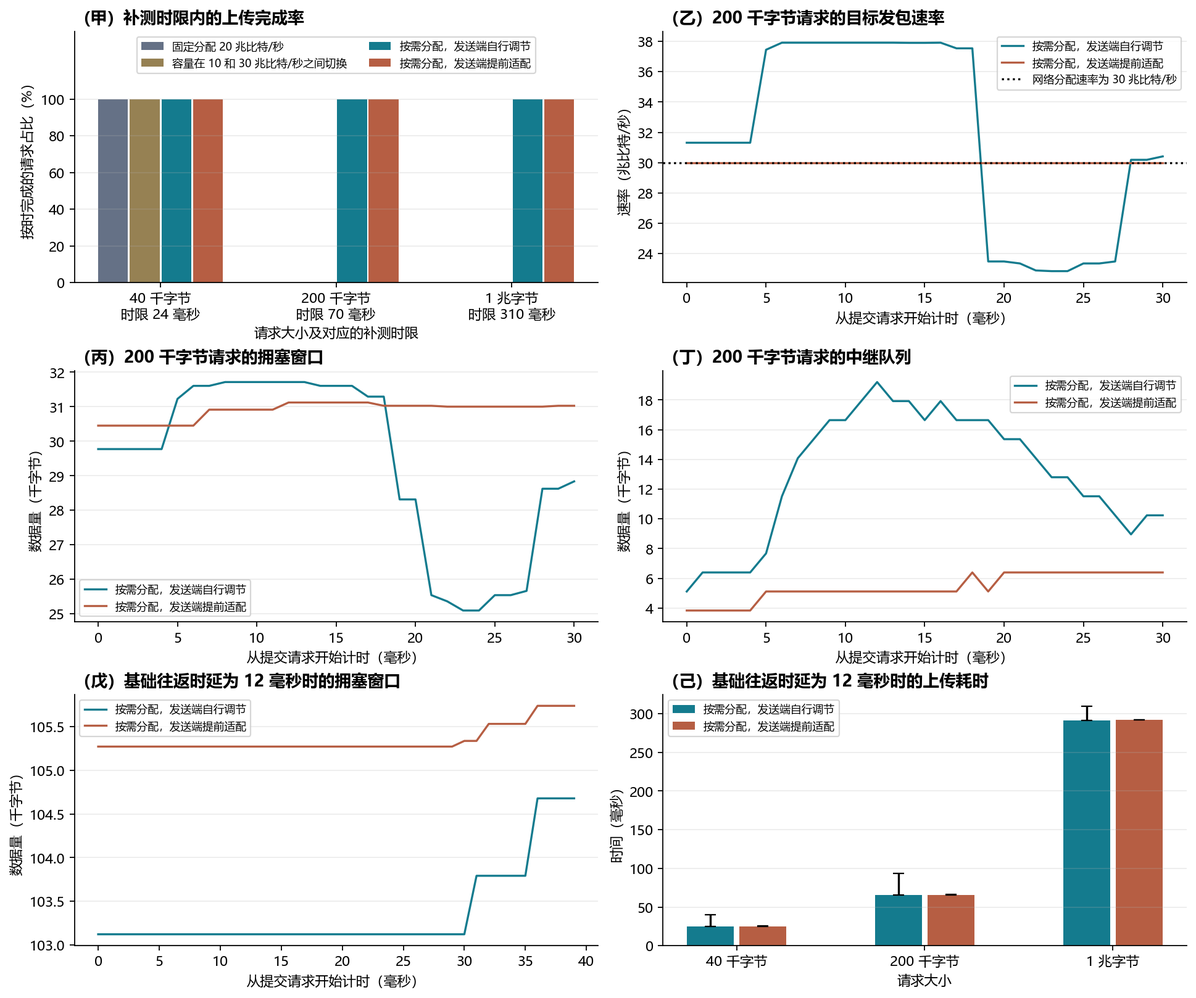
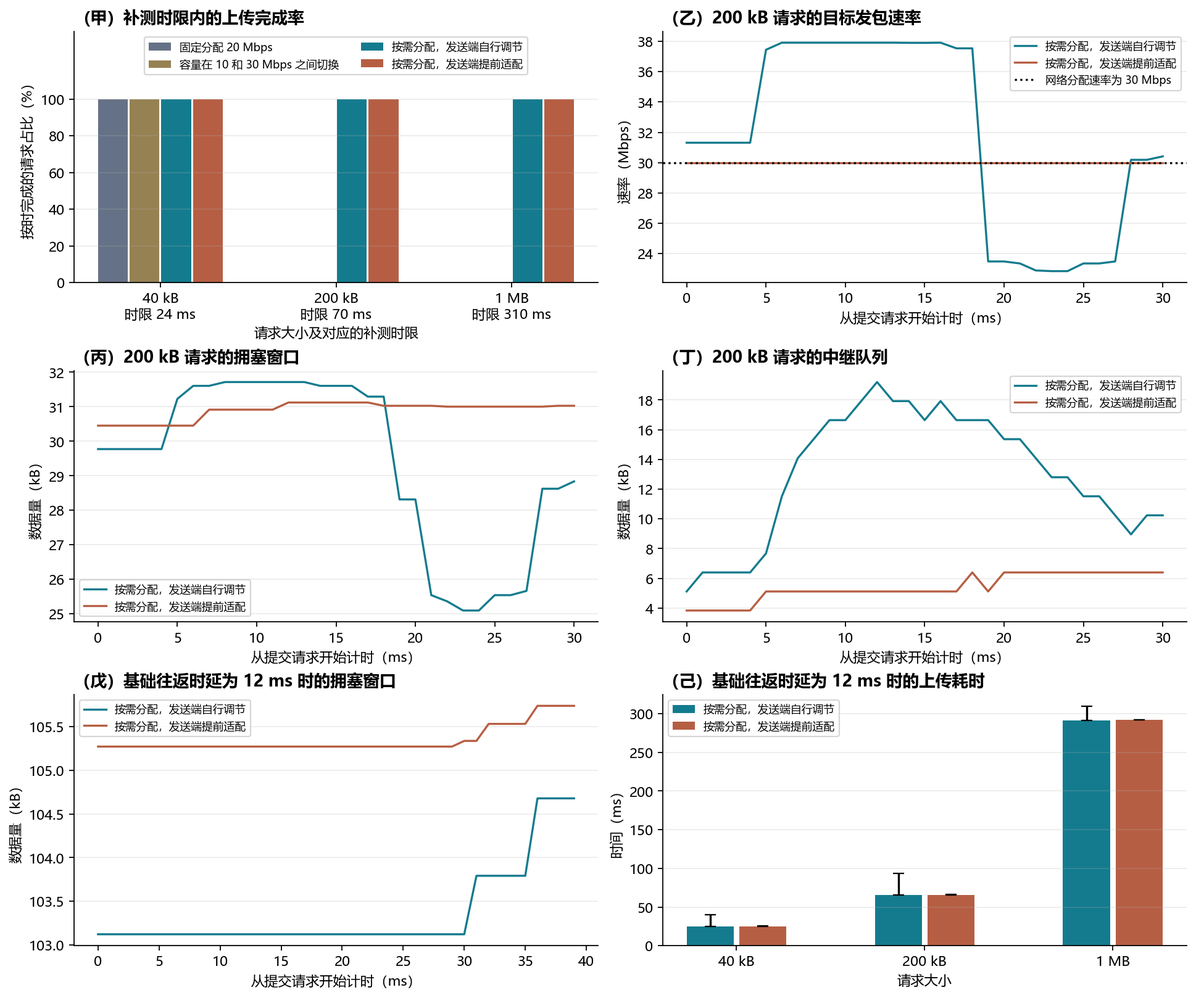
Use standard unit symbols in the Chinese V3 report and figures

diff --git a/v3/plots.py b/v3/plots.py
@@ -14,17 +14,17 @@ import matplotlib.pyplot as plt
 from matplotlib import font_manager
 
 COLORS = ["#657186", "#968153", "#147b8e", "#b65e43", "#78498e"]
-RATE = "速率（兆比特/秒）"
-BYTES = "数据量（千字节）"
-TIME = "时间（毫秒）"
-TASK_TIME = "从提交请求开始计时（毫秒）"
-TASK_SIZES = ["40 千字节", "200 千字节", "1 兆字节"]
+RATE = "速率（Mbps）"
+BYTES = "数据量（kB）"
+TIME = "时间（ms）"
+TASK_TIME = "从提交请求开始计时（ms）"
+TASK_SIZES = ["40 kB", "200 kB", "1 MB"]
 PIPE_NAMES = ("普通管道（短时波动）", "恒定速率管道", "稳定高容量管道", "普通管道（长时波动）")
-GRANT_NAMES = ("固定分配 20 兆比特/秒", "容量在 10 和 30 兆比特/秒之间切换",
+GRANT_NAMES = ("固定分配 20 Mbps", "容量在 10 和 30 Mbps 之间切换",
                "按需分配，发送端自行调节", "按需分配，发送端提前适配")
-PACING_NAMES = ("由拥塞控制算法自行调节", "固定使用 28 兆比特/秒",
-                "先用 28 兆比特/秒，后用 14 兆比特/秒",
-                "固定使用 14 兆比特/秒", "固定使用 21 兆比特/秒")
+PACING_NAMES = ("由拥塞控制算法自行调节", "固定使用 28 Mbps",
+                "先用 28 Mbps，后用 14 Mbps",
+                "固定使用 14 Mbps", "固定使用 21 Mbps")
 
 
 def set_chinese_font(path):
@@ -73,16 +73,16 @@ def plot_a(out, runs, long, summary):
             y = [float(r["btlbw_mbps"]) for r in xs]
             ax[1,0].plot(x,y,color=c,alpha=.85,label=label,linewidth=1)
     style(ax[1,0],"（丙）拥塞控制算法的瓶颈带宽估计（示例轮次）",RATE)
-    ax[1,0].set_xlabel("从实验计时起点开始计时（秒）")
+    ax[1,0].set_xlabel("从实验计时起点开始计时（s）")
     ax[1,0].legend(fontsize=8,ncol=2)
     periodic = [summary["A1_"+case,"all"] for case in names[:3]]
     bars = ax[1,1].bar(range(3),[100*int(r["on_time"])/int(r["tasks"]) for r in periodic],color=COLORS[:3])
     ax[1,1].bar_label(bars,fmt="%.1f%%")
     ax[1,1].set_xticks(range(3),labels[:3]); ax[1,1].set_ylim(0,113)
-    style(ax[1,1],"（丁）每 20 毫秒提交 40 千字节请求的上传表现","20 毫秒内上传完成的请求占比（%）")
+    style(ax[1,1],"（丁）每 20 ms 提交 40 kB 请求的上传表现","20 ms 内上传完成的请求占比（%）")
     tail = ax[1,1].twinx()
     tail.plot(range(3),[float(r["token_p99"]) for r in periodic],"k:o",label="传输回执耗时的第 99 百分位数")
-    tail.set_ylabel("传输回执耗时的第 99 百分位数（毫秒）")
+    tail.set_ylabel("传输回执耗时的第 99 百分位数（ms）")
     tail.set_ylim(0,32)
     tail.spines["top"].set_visible(False)
     tail.legend(loc="lower right",fontsize=8)
@@ -106,18 +106,18 @@ def plot_b(out, curves, summary):
         a.bar([i+(idx-1.5)*.18 for i in range(3)],
               [100*int(r["relaxed_on_time"])/int(r["tasks"]) for r in summary_rows],.17,
               color=COLORS[idx],label=GRANT_NAMES[idx])
-    ax[0,0].set_xticks(range(3),[f"{size}\n时限 {budget} 毫秒" for size,budget in zip(TASK_SIZES,(24,70,310))])
+    ax[0,0].set_xticks(range(3),[f"{size}\n时限 {budget} ms" for size,budget in zip(TASK_SIZES,(24,70,310))])
     ax[0,0].legend(fontsize=8,ncol=2,loc="upper center")
     ax[0,0].set_ylim(0,137); ax[0,0].set_yticks(range(0,101,20))
     ax[0,0].set_xlabel("请求大小及对应的补测时限")
     style(ax[0,0],"（甲）补测时限内的上传完成率","按时完成的请求占比（%）")
-    for a,field,unit,title,scale in ((ax[0,1],"pacing_mbps",RATE,"（乙）200 千字节请求的目标发包速率",1),
-        (ax[1,0],"cwnd_bytes",BYTES,"（丙）200 千字节请求的拥塞窗口",.001),
-        (ax[1,1],"queue",BYTES,"（丁）200 千字节请求的中继队列",.001)):
+    for a,field,unit,title,scale in ((ax[0,1],"pacing_mbps",RATE,"（乙）200 kB 请求的目标发包速率",1),
+        (ax[1,0],"cwnd_bytes",BYTES,"（丙）200 kB 请求的拥塞窗口",.001),
+        (ax[1,1],"queue",BYTES,"（丁）200 kB 请求的中继队列",.001)):
         for idx,name in enumerate(names[2:],2):
             pts=aggregate(curves,"B1_"+name,200000,field)
             a.plot([t for t,v in pts if t<=30],[v*scale for t,v in pts if t<=30],color=COLORS[idx],label=GRANT_NAMES[idx])
-        if field == "pacing_mbps": a.axhline(30,color="black",linestyle=":",label="网络分配速率为 30 兆比特/秒")
+        if field == "pacing_mbps": a.axhline(30,color="black",linestyle=":",label="网络分配速率为 30 Mbps")
         a.legend(fontsize=8); a.set_xlabel(TASK_TIME)
         style(a,title,unit)
     if long_rtt:
@@ -132,8 +132,8 @@ def plot_b(out, curves, summary):
         ax[2,0].legend(fontsize=8); ax[2,0].set_xlabel(TASK_TIME)
         ax[2,1].legend(fontsize=8); ax[2,1].set_xticks(range(3),TASK_SIZES)
         ax[2,1].set_xlabel("请求大小")
-        style(ax[2,0],"（戊）基础往返时延为 12 毫秒时的拥塞窗口",BYTES)
-        style(ax[2,1],"（己）基础往返时延为 12 毫秒时的上传耗时",TIME)
+        style(ax[2,0],"（戊）基础往返时延为 12 ms 时的拥塞窗口",BYTES)
+        style(ax[2,1],"（己）基础往返时延为 12 ms 时的上传耗时",TIME)
     figure(out,"B1",fig)
 
 
@@ -146,7 +146,7 @@ def plot_c(out, summary, tasks):
         rows = [summary["C1_"+case,str(cap)] for case in names]
         x=[i+offset for i in range(3)]
         color = COLORS[0 if cap==10 else 2]
-        label = f"模拟空口容量为 {cap} 兆比特/秒"
+        label = f"模拟空口容量为 {cap} Mbps"
         for a,field in ((ax[0],"on_time"),(ax[1],"correct20")):
             bars=a.bar(x,[int(r[field]) for r in rows],.29,color=color,label=label)
             a.bar_label(bars,fontsize=8,padding=2)
@@ -155,7 +155,7 @@ def plot_c(out, summary, tasks):
         p50 = [median(group) for group in sizes]
         ax[4].errorbar(x,p50,yerr=[[m-min(g) for m,g in zip(p50,sizes)],
             [max(g)-m for m,g in zip(p50,sizes)]],fmt="o",color=color,capsize=4,label=label)
-    for a,title in zip(ax[:2],["（甲）首次发送在 20 毫秒内上传完成的请求数",
+    for a,title in zip(ax[:2],["（甲）首次发送在 20 ms 内上传完成的请求数",
                                "（乙）首次按时上传且本地模型答对的请求数"]):
         a.set_xticks(range(3),labels); a.set_ylim(0,94)
         style(a,title,"请求数（每组共 72 个请求）")
@@ -167,7 +167,7 @@ def plot_c(out, summary, tasks):
         a.bar_label(bars,fmt="%.1f",padding=2); a.margins(y=.2)
         a.set_xticks(range(3),labels)
         style(a,title,unit)
-    ax[2].axhline(20,color="black",linestyle=":",label="20 毫秒上传时限")
+    ax[2].axhline(20,color="black",linestyle=":",label="20 ms 上传时限")
     ax[2].legend(fontsize=8,loc="upper right")
     style(ax[4],"（戊）各方案的首次请求大小",BYTES)
     ax[4].set_xticks(range(3),labels)
@@ -186,10 +186,10 @@ def plot_d(out, curves, summary):
     fig, ax = plt.subplots(3,2,figsize=(12,10),layout="constrained")
     names=["native","high","pattern","low","equal"]
     for a,field,unit,title,scale in ((ax[0,0],"pacing_mbps",RATE,"（甲）目标发包速率",1),
-        (ax[0,1],"tx",RATE,"（乙）实际入队速率（每 2 毫秒统计）",1),
+        (ax[0,1],"tx",RATE,"（乙）实际入队速率（每 2 ms 统计）",1),
         (ax[1,0],"queue",BYTES,"（丙）中继队列中的待发送数据量",.001),
         (ax[2,0],"cwnd_bytes",BYTES,"（戊）拥塞窗口",.001),
-        (ax[2,1],"rx",RATE,"（己）实际出队速率（每 2 毫秒统计）",1)):
+        (ax[2,1],"rx",RATE,"（己）实际出队速率（每 2 ms 统计）",1)):
         for idx,name in enumerate(names):
             if field in ("tx","rx"):
                 intervals = defaultdict(int)
@@ -217,7 +217,7 @@ def plot_d(out, curves, summary):
         a.plot([float(row["upload_p50"]),float(row["upload_p95"])],[i,i],color=COLORS[i],marker="o")
     a.set_yticks(range(len(names)),[name.replace("，", "，\n") for name in PACING_NAMES])
     a.axvline(20,color="gray",linestyle="--")
-    a.set_xlabel("上传耗时（毫秒）")
+    a.set_xlabel("上传耗时（ms）")
     style(a,"（丁）上传耗时的中位数至第 95 百分位数","")
     figure(out,"D1",fig)
 

diff --git a/REPORT.v3.zh-CN.md b/REPORT.v3.zh-CN.md
@@ -4,10 +4,10 @@
 
 | 用例 | 实验比较的是什么 | 实验观察到了什么 |
 |---|---|---|
-| A1 稳定上传容量 | 实验比较平均上传容量相同但稳定性不同的两条管道，并另测容量更高的管道。 | 平均上传容量约为 20 兆比特/秒时，恒定速率管道把 40 千字节请求的按时完成率从 87.2% 提高到 100%。 |
+| A1 稳定上传容量 | 实验比较平均上传容量相同但稳定性不同的两条管道，并另测容量更高的管道。 | 平均上传容量约为 20 Mbps 时，恒定速率管道把 40 kB 请求的按时完成率从 87.2% 提高到 100%。 |
 | B1 按请求分配上传速率 | 实验先比较固定分配和按需分配，再在网络分配相同的情况下比较两种发送端策略。 | 按需分配让大请求更容易在补测时限内上传完毕。发送端提前适配进一步减少了中继排队。 |
-| C1 在上传前选择数据量 | 实验比较超时后缩小请求与上传前根据容量预测缩小请求。 | 当模拟空口容量为 10 兆比特/秒时，提前准确选档把首次按时完成的请求从 0 个增加到 72 个。 |
-| D1 在一次上传内分段发包 | 实验在相同的模拟空口降速条件下比较固定目标发包速率与分段目标发包速率。 | 对 40 千字节请求，分段发包与拥塞控制算法自行调节均能按时完成，分段发包的队列峰值中位数更低。 |
+| C1 在上传前选择数据量 | 实验比较超时后缩小请求与上传前根据容量预测缩小请求。 | 当模拟空口容量为 10 Mbps 时，提前准确选档把首次按时完成的请求从 0 个增加到 72 个。 |
+| D1 在一次上传内分段发包 | 实验在相同的模拟空口降速条件下比较固定目标发包速率与分段目标发包速率。 | 对 40 kB 请求，分段发包与拥塞控制算法自行调节均能按时完成，分段发包的队列峰值中位数更低。 |
 
 ## 实验环境与术语
 
@@ -22,39 +22,39 @@
 | 瓶颈带宽估计 | 拥塞控制算法根据接收端的确认消息估算出的路径瓶颈交付速率。路径瓶颈是传输能力最受限的链路环节。 |
 | 目标发包速率（pacing rate） | 发送端用这个目标安排相邻数据包的发出间隔。拥塞控制算法根据瓶颈带宽估计设定目标，并在探测阶段短时提高目标，以判断链路是否还能交付更多数据。实际发包还取决于应用是否有数据、拥塞窗口是否有余量，以及操作系统何时唤醒发包程序。 |
 | 拥塞窗口（cwnd） | 发送端允许同时在途的数据量上限。在途数据是已经发出但还未收到确认的数据。算法用瓶颈带宽估计和最小往返时延计算基本窗口，再为成批发包留出额外额度。 |
-| 往返时延（RTT） | 发送端发出数据并收到对应确认所经过的时间。基础往返时延是实验配置的上行和下行传播时延之和，实测往返时延还包含排队和确认等待。常规配置的基础往返时延为 2 毫秒，B1 另测了 12 毫秒。 |
+| 往返时延（RTT） | 发送端发出数据并收到对应确认所经过的时间。基础往返时延是实验配置的上行和下行传播时延之和，实测往返时延还包含排队和确认等待。常规配置的基础往返时延为 2 ms，B1 另测了 12 ms。 |
 | 实际入队速率、实际出队速率和中继队列 | 实际入队速率是数据包进入中继缓冲区的速率，实际出队速率是中继把数据包发往服务器的速率。两种速率都按网际协议（IP）数据包的字节数计算，包含协议头等附加数据。中继队列是已经进入缓冲区、正在等待转发的数据量。 |
 | 上传耗时、传输回执耗时和模型首字耗时 | 上传耗时从客户端提交请求算到服务器收齐请求。服务器收齐后返回一个字节作为传输回执，传输回执耗时到客户端收到该字节为止。模型首字耗时在独立推理实验里从提交模型请求算到模型产生首段可见文字。 |
 | 时限、按时完成率和百分位数 | 上传时限是实验允许请求完整到达服务器的最长时间。按时完成率等于按时完成的请求数除以发起的请求数。第 95 百分位数表示约 95% 的样本不超过该数值。第 5、第 50 和第 99 百分位数按同样的方法理解，第 50 百分位数也称为中位数。 |
 
-报告使用十进制单位。1 千字节等于 1,000 字节，1 兆字节等于 1,000 千字节，1 字节等于 8 比特，1 兆比特/秒表示每秒传输 100 万比特。A1、B1 和 D1 使用大小可控的请求来单独考察传输因素。C1 使用同一批 12 道视频问答题，把提问之前的四帧图片重新压缩成两个请求大小档位。实验对两个档位分别运行本地 MiniCPM-o 2.6 视觉语言模型，让模型读取图片和问题并生成答案。实验把传输回执与模型输出分别计量。A1 的请求接连提交，测得的传输回执耗时没有包含服务器等待模型开始处理的时间。
+报告使用十进制单位。1 kB 等于 1,000 B，1 MB 等于 1,000 kB。1 B（字节）等于 8 bit（比特），1 Mbps 表示每秒传输 1,000,000 bit。报告用 ms（毫秒）和 s（秒）表示时间。A1、B1 和 D1 使用大小可控的请求来单独考察传输因素。C1 使用同一批 12 道视频问答题，把提问之前的四帧图片重新压缩成两个请求大小档位。实验对两个档位分别运行本地 MiniCPM-o 2.6 视觉语言模型，让模型读取图片和问题并生成答案。实验把传输回执与模型输出分别计量。A1 的请求接连提交，测得的传输回执耗时没有包含服务器等待模型开始处理的时间。
 
-正式实验包含 **21 个配置，每个配置运行 3 轮，共 12,294 次请求发送**。总数包含 C1 的重试。服务器最终完整收到了所有请求，因此本报告中的上传失败均指请求超过指定时限。正式轮次中，中继没有丢弃数据包。逐轮计算第 99 百分位数后，中继实际出队时间相对计划的最大统计偏差为 **0.36 毫秒**，请求实际提交时间相对计划的最大统计偏差为 **0.39 毫秒**。初轮的本地推理进程与网络实验同时运行，实验剔除了受影响的轮次，并在推理进程结束后重跑了该批配置。[运行环境](results/v3/environment.json) · [逐轮统计](results/v3/runs.json)
+正式实验包含 **21 个配置，每个配置运行 3 轮，共 12,294 次请求发送**。总数包含 C1 的重试。服务器最终完整收到了所有请求，因此本报告中的上传失败均指请求超过指定时限。正式轮次中，中继没有丢弃数据包。逐轮计算第 99 百分位数后，中继实际出队时间相对计划的最大统计偏差为 **0.36 ms**，请求实际提交时间相对计划的最大统计偏差为 **0.39 ms**。初轮的本地推理进程与网络实验同时运行，实验剔除了受影响的轮次，并在推理进程结束后重跑了该批配置。[运行环境](results/v3/environment.json) · [逐轮统计](results/v3/runs.json)
 
 ## A1｜稳定上传容量能否提高按时完成率？
 
-实验先每隔 20 毫秒提交一笔 40 千字节请求，连续提交 8 秒。实验随后把提交间隔缩短到 10 毫秒，连续提交 6 秒，让发送端持续有待发数据，以便观察拥塞控制算法在负载充足时的行为。第二种负载每秒产生 32 兆比特的应用数据，高于所有被测管道的平均容量。实验用这种负载比较传输控制和队列行为。
+实验先每隔 20 ms 提交一笔 40 kB 请求，连续提交 8 s。实验随后把提交间隔缩短到 10 ms，连续提交 6 s，让发送端持续有待发数据，以便观察拥塞控制算法在负载充足时的行为。第二种负载以 32 Mbps 的速率产生应用数据，高于所有被测管道的平均容量。实验用这种负载比较传输控制和队列行为。
 
-| 管道 | 模拟空口容量（兆比特/秒） | 容量保持时间 |
+| 管道 | 模拟空口容量（Mbps） | 容量保持时间 |
 |---|---|---|
-| 普通管道（短时波动） | 容量在 10 和 30 之间交替，均值约为 20。 | 每个档位持续 5 至 10 毫秒。 |
+| 普通管道（短时波动） | 容量在 10 和 30 之间交替，均值约为 20。 | 每个档位持续 5 至 10 ms。 |
 | 恒定速率管道 | 容量固定为 20。 | 容量在整轮实验中保持恒定。 |
-| 稳定高容量管道 | 容量在 28 和 30 之间交替，均值约为 29。 | 每个档位持续 5 至 10 毫秒。 |
-| 普通管道（长时波动） | 容量在 10 和 30 之间交替，均值约为 20。 | 每个档位持续 120 至 180 毫秒。实验只在持续有待发数据的负载下测量这一管道。 |
+| 稳定高容量管道 | 容量在 28 和 30 之间交替，均值约为 29。 | 每个档位持续 5 至 10 ms。 |
+| 普通管道（长时波动） | 容量在 10 和 30 之间交替，均值约为 20。 | 每个档位持续 120 至 180 ms。实验只在持续有待发数据的负载下测量这一管道。 |
 
-### 每隔 20 毫秒提交一笔 40 千字节请求
+### 每隔 20 ms 提交一笔 40 kB 请求
 
-| 管道 | 20 毫秒内上传完成的请求数 | 上传耗时第 99 百分位数（毫秒） | 传输回执耗时第 99 百分位数（毫秒） |
+| 管道 | 20 ms 内上传完成的请求数 | 上传耗时第 99 百分位数（ms） | 传输回执耗时第 99 百分位数（ms） |
 |---|---:|---:|---:|
 | 普通管道（短时波动） | 1,046/1,200 | 21.89 | 23.02 |
 | 恒定速率管道 | 1,200/1,200 | 18.23 | 19.43 |
 | 稳定高容量管道 | 1,200/1,200 | 13.13 | 14.30 |
 
-恒定速率管道和普通短时波动管道的平均上传容量都约为 20 兆比特/秒。恒定速率管道让超过 20 毫秒上传时限的请求从 154 个降到 0 个。稳定高容量管道把平均上传容量提高到约 29 兆比特/秒，上传耗时的第 99 百分位数又比恒定速率管道降低 5.10 毫秒。三种管道的拥塞控制算法在第 3 至第 6 秒都处于启动阶段，算法此时还在寻找足以填满链路的发送速率。稳定高容量管道的目标发包速率约为 83 兆比特/秒，实际入队速率约为 17 兆比特/秒。这组负载每 20 毫秒只提供一笔请求，算法的目标速率远高于应用持续提供数据的速率。
+恒定速率管道和普通短时波动管道的平均上传容量都约为 20 Mbps。恒定速率管道让超过 20 ms 上传时限的请求从 154 个降到 0 个。稳定高容量管道把平均上传容量提高到约 29 Mbps，上传耗时的第 99 百分位数又比恒定速率管道降低 5.10 ms。三种管道的拥塞控制算法在第 3 s 至第 6 s 都处于启动阶段，算法此时还在寻找足以填满链路的发送速率。稳定高容量管道的目标发包速率约为 83 Mbps，实际入队速率约为 17 Mbps。这组负载每 20 ms 只提供一笔请求，算法的目标速率远高于应用持续提供数据的速率。
 
 ### 发送端持续有待发数据
 
-实验在开始计时后的第 3 至第 6 秒统计下表。速率单位为兆比特/秒，数据量单位为千字节。实验先计算各轮的统计量，再取三轮结果的中位数。
+实验在开始计时后的第 3 s 至第 6 s 统计下表。速率单位为 Mbps，数据量单位为 kB。实验先计算各轮的统计量，再取三轮结果的中位数。
 
 | 管道 | 实际出队速率 | 目标发包速率第 5 至第 95 百分位数 | 目标与容量的绝对差，中位数 / 第 99 百分位数 | 拥塞窗口第 5 至第 95 百分位数 | 中继队列第 95 百分位数 |
 |---|---:|---:|---:|---:|---:|
@@ -69,72 +69,72 @@
 
 - **甲图比较目标发包速率。** 横轴列出四种管道。圆点表示每轮目标发包速率中位数在三轮中的中位数。竖线两端分别表示三轮第 5 百分位数和三轮第 95 百分位数的中位数。稳定高容量管道的目标发包速率高于普通短时波动管道，但图中的波动区间仍然较宽。
 - **乙图比较目标发包速率与模拟空口容量的绝对差。** 对于每个采样时刻，实验先用目标发包速率减去同一时刻的模拟空口容量，再取绝对值。圆点和竖线沿用甲图的统计方法。竖线表示第 5 至第 95 百分位数，上表另列第 99 百分位数。恒定速率管道的差值最小，稳定高容量管道的差值也小于普通短时波动管道。
-- **丙图展示瓶颈带宽估计随时间的变化。** 横轴从实验计时起点开始，纵轴表示拥塞控制算法估出的瓶颈交付速率。每条曲线取该管道的一轮示例。普通长时波动管道的估计多次停留在约 30 兆比特/秒附近，尽管该管道的容量也会降到 10 兆比特/秒。
-- **丁图展示 40 千字节请求每隔 20 毫秒提交时的完成表现。** 柱高使用左侧纵轴，表示 20 毫秒内上传完成的请求占比。黑色圆点和点线使用右侧纵轴，表示传输回执耗时的第 99 百分位数。恒定速率管道和稳定高容量管道的按时完成率都达到 100%，稳定高容量管道的回执尾部耗时更短。
+- **丙图展示瓶颈带宽估计随时间的变化。** 横轴从实验计时起点开始，纵轴表示拥塞控制算法估出的瓶颈交付速率。每条曲线取该管道的一轮示例。普通长时波动管道的估计多次停留在约 30 Mbps 附近，尽管该管道的容量也会降到 10 Mbps。
+- **丁图展示 40 kB 请求每隔 20 ms 提交时的完成表现。** 柱高使用左侧纵轴，表示 20 ms 内上传完成的请求占比。黑色圆点和点线使用右侧纵轴，表示传输回执耗时的第 99 百分位数。恒定速率管道和稳定高容量管道的按时完成率都达到 100%，稳定高容量管道的回执尾部耗时更短。
 
-**A1 总结。** 与同均值的普通短时波动管道相比，恒定速率管道用更小的拥塞窗口实现了同样约 20 兆比特/秒的实际出队速率。普通短时波动管道的瓶颈带宽估计中位数为 23.6 兆比特/秒，恒定速率管道的估计中位数为 19.8 兆比特/秒。普通管道短时交付得较快时，拥塞控制算法会暂时保留较高的交付速率样本，因此估出的瓶颈带宽和留出的拥塞窗口都可能更大。稳定高容量管道把实际出队速率提高到约 29 兆比特/秒，也把目标发包速率与模拟空口容量的绝对差中位数从普通短时波动管道的 12.2 兆比特/秒降到 7.2 兆比特/秒。算法的主动探测仍然造成目标速率波动。普通长时波动管道在降档时出现的突出问题是带宽估计继续停留在高值，导致发送目标超过低档容量。
+**A1 总结。** 与同均值的普通短时波动管道相比，恒定速率管道用更小的拥塞窗口实现了同样约 20 Mbps 的实际出队速率。普通短时波动管道的瓶颈带宽估计中位数为 23.6 Mbps，恒定速率管道的估计中位数为 19.8 Mbps。普通管道短时交付得较快时，拥塞控制算法会暂时保留较高的交付速率样本，因此估出的瓶颈带宽和留出的拥塞窗口都可能更大。稳定高容量管道把实际出队速率提高到约 29 Mbps，也把目标发包速率与模拟空口容量的绝对差中位数从普通短时波动管道的 12.2 Mbps 降到 7.2 Mbps。算法的主动探测仍然造成目标速率波动。普通长时波动管道在降档时出现的突出问题是带宽估计继续停留在高值，导致发送目标超过低档容量。
 
 ## B1｜网络按请求分配上传速率后，发送端能否及时跟上？
 
-实验让 40 千字节、200 千字节和 1 兆字节的请求交错到达。原始上传时限为 20 毫秒。即使忽略协议开销和传播时间，30 兆比特/秒的模拟空口也只能在 20 毫秒内提供 75 千字节的传输服务。实验因此为每种请求大小另设一个补测时限，并保留原始时限的完成结果。
+实验让 40 kB、200 kB 和 1 MB 的请求交错到达。原始上传时限为 20 ms。即使忽略协议开销和传播时间，30 Mbps 的模拟空口也只能在 20 ms 内提供 75 kB 的传输服务。实验因此为每种请求大小另设一个补测时限，并保留原始时限的完成结果。
 
-| 请求大小 | 20 毫秒内传完所需的应用速率（兆比特/秒） | 模拟空口容量为 30 兆比特/秒时的理论最短传输时间（毫秒） | 补测上传时限（毫秒） |
+| 请求大小 | 20 ms 内传完所需的应用速率（Mbps） | 模拟空口容量为 30 Mbps 时的理论最短传输时间（ms） | 补测上传时限（ms） |
 |---|---:|---:|---:|
-| 40 千字节 | 16 | 10.7 | 24 |
-| 200 千字节 | 80 | 53.3 | 70 |
-| 1 兆字节 | 400 | 266.7 | 310 |
+| 40 kB | 16 | 10.7 | 24 |
+| 200 kB | 80 | 53.3 | 70 |
+| 1 MB | 400 | 266.7 | 310 |
 
-即使模型不消耗任何处理时间，1 兆字节请求的理论最短上传时间也超过了端到端首字时间 200 毫秒的业务目标。端到端首字时间从客户端提交请求开始，到客户端收到模型的第一段可见文字为止。B1 只度量了上传过程。
+即使模型不消耗任何处理时间，1 MB 请求的理论最短上传时间也超过了端到端首字时间 200 ms 的业务目标。端到端首字时间从客户端提交请求开始，到客户端收到模型的第一段可见文字为止。B1 只度量了上传过程。
 
-实验比较四种策略。**固定分配策略**始终提供 20 兆比特/秒。**容量波动策略**在 10 和 30 兆比特/秒之间切换，平均容量为 20 兆比特/秒。**按需分配、发送端自行调节策略**为 40 千字节请求提供 18 兆比特/秒，为另两种请求提供 30 兆比特/秒，到补测时限结束时恢复基准速率，发送端仍由拥塞控制算法自行调节。**按需分配、发送端提前适配策略**使用相同的网络分配速率，发送端在请求提交时按照已知的分配速率设定目标发包速率。实验还根据该速率和基础往返时延为拥塞窗口计算下限。发送端只有在当前窗口低于下限时才扩大窗口，原拥塞控制算法继续处理确认和丢包。
+实验比较四种策略。**固定分配策略**始终提供 20 Mbps。**容量波动策略**在 10 和 30 Mbps 之间切换，平均容量为 20 Mbps。**按需分配、发送端自行调节策略**为 40 kB 请求提供 18 Mbps，为另两种请求提供 30 Mbps，到补测时限结束时恢复基准速率，发送端仍由拥塞控制算法自行调节。**按需分配、发送端提前适配策略**使用相同的网络分配速率，发送端在请求提交时按照已知的分配速率设定目标发包速率。实验还根据该速率和基础往返时延为拥塞窗口计算下限。发送端只有在当前窗口低于下限时才扩大窗口，原拥塞控制算法继续处理确认和丢包。
 
 ### 两套上传时限的完成结果
 
-| 请求大小 | 上传时限（毫秒） | 固定分配 20 兆比特/秒 | 容量在 10 和 30 兆比特/秒之间切换 | 按需分配，发送端自行调节 | 按需分配，发送端提前适配 |
+| 请求大小 | 上传时限（ms） | 固定分配 20 Mbps | 容量在 10 和 30 Mbps 之间切换 | 按需分配，发送端自行调节 | 按需分配，发送端提前适配 |
 |---|---:|---:|---:|---:|---:|
-| 40 千字节 | 20 | 15/15 | 14/15 | 9/15 | 3/15 |
-| 40 千字节 | 24 | 15/15 | 15/15 | 15/15 | 15/15 |
-| 200 千字节 | 20 | 0/15 | 0/15 | 0/15 | 0/15 |
-| 200 千字节 | 70 | 0/15 | 0/15 | 15/15 | 15/15 |
-| 1 兆字节 | 20 | 0/15 | 0/15 | 0/15 | 0/15 |
-| 1 兆字节 | 310 | 0/15 | 0/15 | 15/15 | 15/15 |
+| 40 kB | 20 | 15/15 | 14/15 | 9/15 | 3/15 |
+| 40 kB | 24 | 15/15 | 15/15 | 15/15 | 15/15 |
+| 200 kB | 20 | 0/15 | 0/15 | 0/15 | 0/15 |
+| 200 kB | 70 | 0/15 | 0/15 | 15/15 | 15/15 |
+| 1 MB | 20 | 0/15 | 0/15 | 0/15 | 0/15 |
+| 1 MB | 310 | 0/15 | 0/15 | 15/15 | 15/15 |
 
-| 请求大小 | 固定分配的上传耗时中位数（毫秒） | 容量波动时的上传耗时中位数（毫秒） | 按需分配、发送端自行调节的上传耗时中位数（毫秒） | 按需分配、发送端提前适配的上传耗时中位数（毫秒） |
+| 请求大小 | 固定分配的上传耗时中位数（ms） | 容量波动时的上传耗时中位数（ms） | 按需分配、发送端自行调节的上传耗时中位数（ms） | 按需分配、发送端提前适配的上传耗时中位数（ms） |
 |---|---:|---:|---:|---:|
-| 40 千字节 | 18.22 | 15.93 | 20.00 | 20.10 |
-| 200 千字节 | 85.72 | 84.32 | 57.56 | 57.54 |
-| 1 兆字节 | 423.04 | 425.40 | 282.89 | 283.27 |
+| 40 kB | 18.22 | 15.93 | 20.00 | 20.10 |
+| 200 kB | 85.72 | 84.32 | 57.56 | 57.54 |
+| 1 MB | 423.04 | 425.40 | 282.89 | 283.27 |
 
 ![图 2。按请求分配模拟空口速率后，发送端的发包速率、拥塞窗口、排队和上传完成表现](results/v3/B1.png)
 
 **图 2 的读法。**
 
-- **甲图比较补测时限内的上传完成率。** 横轴给出请求大小和相应的 24、70 或 310 毫秒时限。纵轴表示在对应时限内完成的请求占比，每种请求大小、每种策略的分母都是 15。两种按需分配策略都让 200 千字节和 1 兆字节的请求在补测时限内全部完成。
-- **乙图比较 200 千字节请求的目标发包速率。** 横轴从请求提交开始计时。两条彩色曲线使用每毫秒的跨请求中位数。黑色点线表示网络为两种按需分配策略共同提供的 30 兆比特/秒。发送端提前适配时，目标发包速率较早贴近网络分配速率。
-- **丙图比较 200 千字节请求的拥塞窗口。** 横轴从请求提交开始计时，纵轴表示发送端允许同时在途的数据量。每个时间点显示 15 个请求的窗口中位数。该图用来检查窗口是否会随着发送策略发生变化。
-- **丁图比较 200 千字节请求的中继队列。** 实验先在每个 1 毫秒区间内取每个请求的最大待转发数据量，再取 15 个请求的中位数。发送端提前适配时，中继需要暂存的数据量较少。
-- **戊图比较基础往返时延为 12 毫秒时，200 千字节请求的拥塞窗口。** 横轴从请求提交开始计时，纵轴仍表示允许同时在途的数据量，每个点仍取 15 个请求的中位数。两种策略的起始窗口都在 100 千字节以上。
-- **己图比较基础往返时延为 12 毫秒时的上传耗时。** 横轴表示请求大小。柱高表示上传耗时中位数，柱顶黑线的末端表示第 99 百分位数。两种策略的中位数接近，发送端提前适配的策略主要降低了较慢样本的上传耗时。
+- **甲图比较补测时限内的上传完成率。** 横轴给出请求大小和相应的 24、70 或 310 ms 时限。纵轴表示在对应时限内完成的请求占比，每种请求大小、每种策略的分母都是 15。两种按需分配策略都让 200 kB 和 1 MB 的请求在补测时限内全部完成。
+- **乙图比较 200 kB 请求的目标发包速率。** 横轴从请求提交开始计时。两条彩色曲线使用每 1 ms 的跨请求中位数。黑色点线表示网络为两种按需分配策略共同提供的 30 Mbps。发送端提前适配时，目标发包速率较早贴近网络分配速率。
+- **丙图比较 200 kB 请求的拥塞窗口。** 横轴从请求提交开始计时，纵轴表示发送端允许同时在途的数据量。每个时间点显示 15 个请求的窗口中位数。该图用来检查窗口是否会随着发送策略发生变化。
+- **丁图比较 200 kB 请求的中继队列。** 实验先在每个 1 ms 区间内取每个请求的最大待转发数据量，再取 15 个请求的中位数。发送端提前适配时，中继需要暂存的数据量较少。
+- **戊图比较基础往返时延为 12 ms 时，200 kB 请求的拥塞窗口。** 横轴从请求提交开始计时，纵轴仍表示允许同时在途的数据量，每个点仍取 15 个请求的中位数。两种策略的起始窗口都在 100 kB 以上。
+- **己图比较基础往返时延为 12 ms 时的上传耗时。** 横轴表示请求大小。柱高表示上传耗时中位数，柱顶黑线的末端表示第 99 百分位数。两种策略的中位数接近，发送端提前适配的策略主要降低了较慢样本的上传耗时。
 
-**B1 总结。** 对 200 千字节请求，网络从固定提供 20 兆比特/秒改为按需提供 30 兆比特/秒后，上传耗时中位数从 85.72 毫秒降至 57.56 毫秒。网络维持相同的 30 兆比特/秒分配时，自行调节的发送端只有 7 个请求在头 20 毫秒内连续 3 次约 1 毫秒的采样中达到分配速率的上下 10% 以内。提前适配的发送端有 15 个请求达到这一条件，首次达到该条件的时间中位数为 0.55 毫秒。提前适配也把头 20 毫秒内的队列峰值中位数从 21.8 千字节降到 6.4 千字节，上传耗时中位数基本相同。
+**B1 总结。** 对 200 kB 请求，网络从固定提供 20 Mbps 改为按需提供 30 Mbps 后，上传耗时中位数从 85.72 ms 降至 57.56 ms。网络维持相同的 30 Mbps 分配时，自行调节的发送端只有 7 个请求在头 20 ms 内连续 3 次约 1 ms 的采样中达到分配速率的上下 10% 以内。提前适配的发送端有 15 个请求达到这一条件，首次达到该条件的时间中位数为 0.55 ms。提前适配也把头 20 ms 内的队列峰值中位数从 21.8 kB 降到 6.4 kB，上传耗时中位数基本相同。
 
-基础往返时延为 12 毫秒时，发送端提前适配把 200 千字节请求上传耗时的第 99 百分位数从 93.36 毫秒降到 66.29 毫秒，把 1 兆字节请求的对应指标从 309.39 毫秒降到 292.36 毫秒。两种请求在各自补测时限内的完成数都从 14/15 增加到 15/15。两种策略的起始拥塞窗口约为 103 至 106 千字节，已经高于约 45 千字节的**带宽时延积**，即模拟空口容量为 30 兆比特/秒时在一个 12 毫秒的基础往返周期内可发送的数据量。实测支持快速调整发送节奏可以减轻排队，窗口已经足够大时，实验无法把收益单独归因于扩大拥塞窗口。
+基础往返时延为 12 ms 时，发送端提前适配把 200 kB 请求上传耗时的第 99 百分位数从 93.36 ms 降到 66.29 ms，把 1 MB 请求的对应指标从 309.39 ms 降到 292.36 ms。两种请求在各自补测时限内的完成数都从 14/15 增加到 15/15。两种策略的起始拥塞窗口约为 103 至 106 kB，已经高于约 45 kB 的**带宽时延积**，即模拟空口容量为 30 Mbps 时在一个 12 ms 的基础往返周期内可发送的数据量。实测支持快速调整发送节奏可以减轻排队，窗口已经足够大时，实验无法把收益单独归因于扩大拥塞窗口。
 
-对 40 千字节请求，18 兆比特/秒的按需分配比固定分配 20 兆比特/秒少占用 10% 的名义速率。按 24 毫秒补测时限计算，按时到达的应用字节占可分配传输字节的比例从 66.7% 提高到 74.1%。如果必须在 20 毫秒内完成，18 兆比特/秒的分配速率会让更多请求超时。实验度量的是单个请求的传输资源占用，其他用户能够复用多少资源需要另行验证。
+对 40 kB 请求，18 Mbps 的按需分配比固定分配 20 Mbps 少占用 10% 的名义速率。按 24 ms 补测时限计算，按时到达的应用字节占可分配传输字节的比例从 66.7% 提高到 74.1%。如果必须在 20 ms 内完成，18 Mbps 的分配速率会让更多请求超时。实验度量的是单个请求的传输资源占用，其他用户能够复用多少资源需要另行验证。
 
 ## C1｜提前选择上传数据量能否减少超时和整笔请求的重复发送？
 
-每笔原始请求在模拟空口容量为 10 或 30 兆比特/秒的条件下发送。容量在请求之间切换。实验为首次发送和可能的第二次发送各留出一个 40 毫秒时段，因此同一笔原始请求的容量状态保持 80 毫秒。应用用同一批视频帧生成两种请求。**低档请求**的完整大小为 17.0 至 21.1 千字节，**高档请求**的完整大小为 39.0 至 41.2 千字节。每种策略在每种容量状态下都有 72 个首次请求。
+每笔原始请求在模拟空口容量为 10 或 30 Mbps 的条件下发送。容量在请求之间切换。实验为首次发送和可能的第二次发送各留出一个 40 ms 时段，因此同一笔原始请求的容量状态保持 80 ms。应用用同一批视频帧生成两种请求。**低档请求**的完整大小为 17.0 至 21.1 kB，**高档请求**的完整大小为 39.0 至 41.2 kB。每种策略在每种容量状态下都有 72 个首次请求。
 
-- **超时后改用低档的策略**先发送高档请求。如果客户端在 20 毫秒内没有收到传输回执，应用在原始请求提交后约 40 毫秒用另一条可靠传输流发送完整的低档请求。
-- **按完全正确的预测提前选档的策略**在模拟空口容量为 10 兆比特/秒时先发低档请求，在容量为 30 兆比特/秒时先发高档请求。实验直接提供正确的容量状态，用这一策略衡量预测完全正确时的收益。
+- **超时后改用低档的策略**先发送高档请求。如果客户端在 20 ms 内没有收到传输回执，应用在原始请求提交后约 40 ms 用另一条可靠传输流发送完整的低档请求。
+- **按完全正确的预测提前选档的策略**在模拟空口容量为 10 Mbps 时先发低档请求，在容量为 30 Mbps 时先发高档请求。实验直接提供正确的容量状态，用这一策略衡量预测完全正确时的收益。
 - **按约八成准确率的预测提前选档的策略**同样按预测选择首次请求大小，但实验预先把约五分之一的状态判断改成错误的状态，用来衡量预测错误的代价。
 
 ### 各策略发送的请求大小
 
-| 选档策略 | 模拟空口容量（兆比特/秒） | 首发的低档 / 高档请求数 | 首次请求大小中位数（千字节） | 第二次发送的请求数及大小 |
+| 选档策略 | 模拟空口容量（Mbps） | 首发的低档 / 高档请求数 | 首次请求大小中位数（kB） | 第二次发送的请求数及大小 |
 |---|---:|---:|---:|---|
-| 超时后改用低档 | 10 | 0 / 72 | 40.0 | 72 次低档请求，中位数为 17.9 千字节。 |
+| 超时后改用低档 | 10 | 0 / 72 | 40.0 | 72 次低档请求，中位数为 17.9 kB。 |
 | 超时后改用低档 | 30 | 0 / 72 | 40.0 | 0 次。 |
 | 按完全正确的预测提前选档 | 10 | 72 / 0 | 17.9 | 0 次。 |
 | 按完全正确的预测提前选档 | 30 | 0 / 72 | 40.0 | 0 次。 |
@@ -143,9 +143,9 @@
 
 ### 低容量状态下的上传和模型结果
 
-模拟空口容量为 10 兆比特/秒时，链路在 20 毫秒内最多能传输 25 千字节，所以约 40 千字节的高档请求会超过上传时限。模拟空口容量为 30 兆比特/秒时，三种策略的 72 个首次请求都在 20 毫秒内上传完成。
+模拟空口容量为 10 Mbps 时，链路在 20 ms 内最多能传输 25 kB，所以约 40 kB 的高档请求会超过上传时限。模拟空口容量为 30 Mbps 时，三种策略的 72 个首次请求都在 20 ms 内上传完成。
 
-| 模拟空口容量为 10 兆比特/秒时的选档策略 | 首次上传耗时中位数 / 第 99 百分位数（毫秒） | 首次按时上传的请求数 | 首次按时上传且本地模型答对的请求数 | 首次发送头 20 毫秒内的队列峰值中位数（千字节） |
+| 模拟空口容量为 10 Mbps 时的选档策略 | 首次上传耗时中位数 / 第 99 百分位数（ms） | 首次按时上传的请求数 | 首次按时上传且本地模型答对的请求数 | 首次发送头 20 ms 内的队列峰值中位数（kB） |
 |---|---:|---:|---:|---:|
 | 超时后改用低档 | 35.14 / 36.21 | 0/72 | 0/72 | 39.4 |
 | 按完全正确的预测提前选档 | 16.55 / 19.16 | 72/72 | 54/72 | 18.6 |
@@ -155,45 +155,45 @@
 
 **图 3 的读法。**
 
-- **甲图比较首次按时上传的请求数。** 横轴是三种选档策略，两种柱色分别表示 10 和 30 兆比特/秒的模拟空口容量。纵轴统计首次发送后 20 毫秒内完成上传的请求数，每个柱子的分母都是 72。容量为 10 兆比特/秒时，提前选档的收益最明显。
-- **乙图比较首次按时上传且本地模型答对的请求数。** 实验把按时收到的首次请求与使用相同图片档位独立运行的模型答案逐题配对。只有首次上传在 20 毫秒内完成并且模型答案正确，实验才计入该请求。每个柱子的分母仍是 72，20 毫秒只约束上传。
-- **丙图比较低容量状态下的首次上传耗时中位数。** 模拟空口容量固定为 10 兆比特/秒。柱高表示从首次提交到服务器收齐请求的时间中位数。黑色点线表示 20 毫秒的上传时限。两种提前选档策略的中位数均低于该时限。
-- **丁图比较低容量状态下的中继队列。** 模拟空口容量固定为 10 兆比特/秒。实验对每个首次请求取提交后 20 毫秒内的最大排队字节数，再对 72 个首次请求取中位数。提前缩小请求可以减少进入中继的待发送数据。
+- **甲图比较首次按时上传的请求数。** 横轴是三种选档策略，两种柱色分别表示 10 和 30 Mbps 的模拟空口容量。纵轴统计首次发送后 20 ms 内完成上传的请求数，每个柱子的分母都是 72。容量为 10 Mbps 时，提前选档的收益最明显。
+- **乙图比较首次按时上传且本地模型答对的请求数。** 实验把按时收到的首次请求与使用相同图片档位独立运行的模型答案逐题配对。只有首次上传在 20 ms 内完成并且模型答案正确，实验才计入该请求。每个柱子的分母仍是 72，20 ms 只约束上传。
+- **丙图比较低容量状态下的首次上传耗时中位数。** 模拟空口容量固定为 10 Mbps。柱高表示从首次提交到服务器收齐请求的时间中位数。黑色点线表示 20 ms 的上传时限。两种提前选档策略的中位数均低于该时限。
+- **丁图比较低容量状态下的中继队列。** 模拟空口容量固定为 10 Mbps。实验对每个首次请求取提交后 20 ms 内的最大排队字节数，再对 72 个首次请求取中位数。提前缩小请求可以减少进入中继的待发送数据。
 - **戊图比较三种策略的首次请求大小。** 横轴是选档策略，两种颜色表示两个容量状态。圆点表示 72 个首次请求的大小中位数，线段两端分别表示最小和最大请求大小。约八成准确率的预测会选中两个档位，因此请求大小的范围同时覆盖低档和高档。
-- **己图比较事后降档方案的起始目标发包速率。** 模拟空口容量为 10 兆比特/秒。两根柱子分别表示高档首次发送和低档第二次发送后，拥塞控制算法的第一个采样点所记录的目标发包速率中位数。两根柱子都为 86.9 兆比特/秒。
+- **己图比较事后降档方案的起始目标发包速率。** 模拟空口容量为 10 Mbps。两根柱子分别表示高档首次发送和低档第二次发送后，拥塞控制算法的第一个采样点所记录的目标发包速率中位数。两根柱子都为 86.9 Mbps。
 
-**C1 总结。** 三种策略都让拥塞控制算法自行决定发包节奏。超时后改用低档的策略改变的是第二次发送的应用字节数。模拟空口容量为 10 兆比特/秒时，该策略的首发与重试的起始目标发包速率中位数都是 86.9 兆比特/秒，起始拥塞窗口中位数也都是 60.6 千字节。高档首发和低档重试合计传输的应用数据量中位数为 57.8 千字节，从原始请求提交到服务器收齐低档重试的耗时中位数为 56.5 毫秒。按完全正确的预测提前选档时，应用首次只发送约 17.9 千字节，上传耗时中位数为 16.55 毫秒。
+**C1 总结。** 三种策略都让拥塞控制算法自行决定发包节奏。超时后改用低档的策略改变的是第二次发送的应用字节数。模拟空口容量为 10 Mbps 时，该策略的首发与重试的起始目标发包速率中位数都是 86.9 Mbps，起始拥塞窗口中位数也都是 60.6 kB。高档首发和低档重试合计传输的应用数据量中位数为 57.8 kB，从原始请求提交到服务器收齐低档重试的耗时中位数为 56.5 ms。按完全正确的预测提前选档时，应用首次只发送约 17.9 kB，上传耗时中位数为 16.55 ms。
 
-同一批 12 道题的本地模型结果显示，低档请求答对 9 道题，高档请求答对 10 道题。两个档位的模型首字耗时中位数分别约为 506 毫秒和 507 毫秒。提前选档让更多请求在低容量状态下按时交付，但压缩图片会改变模型能够使用的视觉信息。预测出错时，高档请求仍可能超时，因此约八成准确率策略的首次上传耗时第 99 百分位数回升到 35.78 毫秒。
+同一批 12 道题的本地模型结果显示，低档请求答对 9 道题，高档请求答对 10 道题。两个档位的模型首字耗时中位数分别约为 506 ms 和 507 ms。提前选档让更多请求在低容量状态下按时交付，但压缩图片会改变模型能够使用的视觉信息。预测出错时，高档请求仍可能超时，因此约八成准确率策略的首次上传耗时第 99 百分位数回升到 35.78 ms。
 
 ## D1｜在一次上传内分段发包能否兼顾上传耗时和排队？
 
-实验把一次上传的前 10 毫秒配置为 30 兆比特/秒，把随后的模拟空口容量降至 15 兆比特/秒。模拟空口在头 20 毫秒可传输的理论网际协议数据量为 56.25 千字节。分段发包方案在前 10 毫秒使用 28 兆比特/秒的目标发包速率，随后使用 14 兆比特/秒。在目标速率可以连续维持、忽略额外开销的情况下，该方案的头 20 毫秒名义发送量为 52.5 千字节。固定使用 21 兆比特/秒也得到相同的名义发送量，因此这两个方案可以用来比较发送时序本身的作用。
+实验把一次上传的前 10 ms 配置为 30 Mbps，把随后的模拟空口容量降至 15 Mbps。模拟空口在头 20 ms 可传输的理论网际协议数据量为 56.25 kB。分段发包方案在前 10 ms 使用 28 Mbps 的目标发包速率，随后使用 14 Mbps。在目标速率可以连续维持、忽略额外开销的情况下，该方案的头 20 ms 名义发送量为 52.5 kB。固定使用 21 Mbps 也得到相同的名义发送量，因此这两个方案可以用来比较发送时序本身的作用。
 
-实验还比较由拥塞控制算法自行调节、固定使用 28 兆比特/秒、固定使用 14 兆比特/秒这三种策略。各方案都保留拥塞控制算法的窗口约束。实验先用 50 千字节的请求测试接近 20 毫秒容量上限时的表现，再用 40 千字节的请求测试容量还有余量时的表现。
+实验还比较由拥塞控制算法自行调节、固定使用 28 Mbps、固定使用 14 Mbps 这三种策略。各方案都保留拥塞控制算法的窗口约束。实验先用 50 kB 的请求测试接近 20 ms 容量上限时的表现，再用 40 kB 的请求测试容量还有余量时的表现。
 
-| 发包策略 | 50 千字节请求的上传耗时中位数（毫秒） | 50 千字节请求在头 20 毫秒内的队列峰值中位数（千字节） | 50 千字节请求在 20 毫秒内完成的数量 | 40 千字节请求在 20 毫秒内完成的数量 |
+| 发包策略 | 50 kB 请求的上传耗时中位数（ms） | 50 kB 请求在头 20 ms 内的队列峰值中位数（kB） | 50 kB 请求在 20 ms 内完成的数量 | 40 kB 请求在 20 ms 内完成的数量 |
 |---|---:|---:|---:|---:|
 | 由拥塞控制算法自行调节 | 19.67 | 19.2 | 64/72 | 72/72 |
-| 固定使用 28 兆比特/秒 | 19.97 | 10.2 | 40/72 | 72/72 |
-| 固定使用 14 兆比特/秒 | 29.94 | 2.6 | 0/72 | 0/72 |
-| 固定使用 21 兆比特/秒 | 24.30 | 9.0 | 0/72 | 72/72 |
-| 先用 28 兆比特/秒，后用 14 兆比特/秒 | 20.26 | 3.8 | 0/72 | 72/72 |
+| 固定使用 28 Mbps | 19.97 | 10.2 | 40/72 | 72/72 |
+| 固定使用 14 Mbps | 29.94 | 2.6 | 0/72 | 0/72 |
+| 固定使用 21 Mbps | 24.30 | 9.0 | 0/72 | 72/72 |
+| 先用 28 Mbps，后用 14 Mbps | 20.26 | 3.8 | 0/72 | 72/72 |
 
-![图 4。50 千字节请求在模拟空口降速前后的发送速率、转发速率、队列和上传耗时](results/v3/D1.png)
+![图 4。50 kB 请求在模拟空口降速前后的发送速率、转发速率、队列和上传耗时](results/v3/D1.png)
 
-**图 4 的读法。** 图中只统计 50 千字节请求，每种策略有 72 个请求。甲、乙、丙、戊、己图的横轴都从客户端提交请求开始计时。灰色虚线表示 20 毫秒上传时限。甲、乙、己图的黑色点线表示模拟空口容量在 10 毫秒时从 30 兆比特/秒降到 15 兆比特/秒。
+**图 4 的读法。** 图中只统计 50 kB 请求，每种策略有 72 个请求。甲、乙、丙、戊、己图的横轴都从客户端提交请求开始计时。灰色虚线表示 20 ms 上传时限。甲、乙、己图的黑色点线表示模拟空口容量在 10 ms 时从 30 Mbps 降到 15 Mbps。
 
-- **甲图比较目标发包速率。** 每条曲线按每毫秒计算 72 个请求的目标发包速率中位数。分段发包的目标随模拟空口容量降档，固定发包方案在请求仍有数据待发时继续使用设定的目标速率。请求传完并收到回执后，发送端恢复由拥塞控制算法自行调节，因此曲线后段可能抬升。
-- **乙图比较实际入队速率。** 实验对每个请求按 2 毫秒累计进入中继缓冲区的网际协议数据字节，换算成兆比特/秒，再取 72 个请求的中位数。请求发完后实际入队速率接近零。该图显示发送端实际交给中继的数据，与甲图的控制目标互相补充。
-- **丙图比较中继队列中的待发送数据量。** 实验先取每个请求在每个 1 毫秒区间内的队列峰值，再取 72 个请求的中位数。分段发包在容量降档后缩小了队列，固定使用 28 兆比特/秒的方案在降档后仍积累了一段时间的数据。
-- **丁图比较上传耗时的中位数和第 95 百分位数。** 横轴是完整请求到达服务器所需的时间，纵轴列出五种发包策略。每条线段的左端是中位数，右端是第 95 百分位数。灰色虚线左侧表示上传耗时小于 20 毫秒。
+- **甲图比较目标发包速率。** 每条曲线按每 1 ms 计算 72 个请求的目标发包速率中位数。分段发包的目标随模拟空口容量降档，固定发包方案在请求仍有数据待发时继续使用设定的目标速率。请求传完并收到回执后，发送端恢复由拥塞控制算法自行调节，因此曲线后段可能抬升。
+- **乙图比较实际入队速率。** 实验对每个请求按 2 ms 累计进入中继缓冲区的网际协议数据字节，换算成 Mbps，再取 72 个请求的中位数。请求发完后实际入队速率接近零。该图显示发送端实际交给中继的数据，与甲图的控制目标互相补充。
+- **丙图比较中继队列中的待发送数据量。** 实验先取每个请求在每个 1 ms 区间内的队列峰值，再取 72 个请求的中位数。分段发包在容量降档后缩小了队列，固定使用 28 Mbps 的方案在降档后仍积累了一段时间的数据。
+- **丁图比较上传耗时的中位数和第 95 百分位数。** 横轴是完整请求到达服务器所需的时间，纵轴列出五种发包策略。每条线段的左端是中位数，右端是第 95 百分位数。灰色虚线左侧表示上传耗时小于 20 ms。
 - **戊图比较拥塞窗口。** 纵轴表示发送端允许同时在途的字节数，每个时间点取 72 个请求的中位数。分段发包的主要控制动作出现在甲图的发包目标上，戊图没有显示容量降档时拥塞窗口也按相同比例收缩。
-- **己图比较实际出队速率。** 实验对每个请求按 2 毫秒累计中继发往服务器的网际协议数据字节，换算成兆比特/秒，再取 72 个请求的中位数。该图用来观察高容量阶段实际转发了多少数据，以及上传任务完成时出队速率如何回落。短区间内的出队速率受到整包计数的影响，可以在容量线附近上下波动。
+- **己图比较实际出队速率。** 实验对每个请求按 2 ms 累计中继发往服务器的网际协议数据字节，换算成 Mbps，再取 72 个请求的中位数。该图用来观察高容量阶段实际转发了多少数据，以及上传任务完成时出队速率如何回落。短区间内的出队速率受到整包计数的影响，可以在容量线附近上下波动。
 
-**D1 总结。** 对 50 千字节请求，固定使用 28 兆比特/秒与分段发包在前 10 毫秒的实际入队速率中位数都为 29.7 兆比特/秒，固定使用 21 兆比特/秒的方案只有 22.5 兆比特/秒。在容量降档后的第 10 至第 13 毫秒，固定使用 28 兆比特/秒的方案仍以 27.3 兆比特/秒的中位入队速率向中继发送数据，分段发包的中位入队速率则降到 13.7 兆比特/秒，更接近 15 兆比特/秒的模拟空口容量。
+**D1 总结。** 对 50 kB 请求，固定使用 28 Mbps 与分段发包在前 10 ms 的实际入队速率中位数都为 29.7 Mbps，固定使用 21 Mbps 的方案只有 22.5 Mbps。在容量降档后的第 10 至第 13 ms，固定使用 28 Mbps 的方案仍以 27.3 Mbps 的中位入队速率向中继发送数据，分段发包的中位入队速率则降到 13.7 Mbps，更接近 15 Mbps 的模拟空口容量。
 
-在同为 52.5 千字节名义发送量的对照中，分段发包比固定使用 21 兆比特/秒的方案缩短了 **4.04 毫秒**的上传耗时中位数，并将头 20 毫秒内的队列峰值中位数降低约 **57%**。50 千字节请求的名义发送余量还要覆盖协议头、发送最后一个整包和传播等待，因此分段方案没有请求赶上 20 毫秒时限。改用 40 千字节请求后，分段发包策略和由拥塞控制算法自行调节的策略都在 20 毫秒内完成了各自的全部 72 个请求。分段发包把 40 千字节请求的队列峰值中位数从自行调节时的 15.4 千字节降到 3.8 千字节。实验结果表明，分段发包可以兼顾较快上传和较短队列，前提是最后一段仍有足够的时间把完整请求送到服务器。
+在同为 52.5 kB 名义发送量的对照中，分段发包比固定使用 21 Mbps 的方案缩短了 **4.04 ms**的上传耗时中位数，并将头 20 ms 内的队列峰值中位数降低约 **57%**。50 kB 请求的名义发送余量还要覆盖协议头、发送最后一个整包和传播等待，因此分段方案没有请求赶上 20 ms 时限。改用 40 kB 请求后，分段发包策略和由拥塞控制算法自行调节的策略都在 20 ms 内完成了各自的全部 72 个请求。分段发包把 40 kB 请求的队列峰值中位数从自行调节时的 15.4 kB 降到 3.8 kB。实验结果表明，分段发包可以兼顾较快上传和较短队列，前提是最后一段仍有足够的时间把完整请求送到服务器。
 
 ## 原始数据与复现
 
